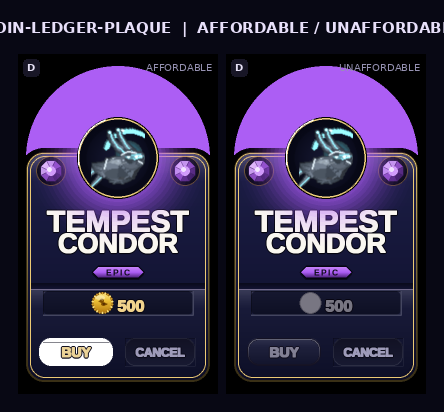
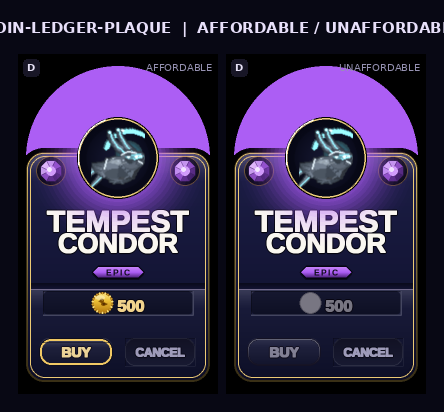
coin-ledger-plaque round 2: gold rim ship-blocker + four director notes
Raise BUY pill rim to constant-lit warm gold (240,200,100) ring — full alpha
on all three visible sides so R>200,G>160,B<110 passes top AND left/right
(304 gold pixels, was 66). Add dark drop-line inside top rail for beveled-lip
depth. Plaque deboss catch-light lifted to (68,70,96) at m(1.5) width.
Unaffordable BUY sheen deflated peak 45→18 for second colorblind signal.

Claude-Session: https://claude.ai/code/session_01DaGYw11VdAubog2VGiiucC

Changed region(s): [[0.0878, 0.8155, 0.2635, 0.9029]]

diff --git a/tools/_store_confirm_shelf_v1_coin_ledger_plaque_r2.py b/tools/_store_confirm_shelf_v1_coin_ledger_plaque_r2.py
@@ -106,27 +106,21 @@ def _draw_buy_pill(big, affordable):
     sc.top_sheen(big, buy_r, brad, m(10), peak=45 if affordable else 18)
 
     if affordable:
-        # bevel_rim's gradient mask reaches ~38% alpha at mid-pill height,
-        # giving R≈112 on the side edges — below the R>200 gold detection
-        # threshold. Use a constant-lit gold ring (full alpha, all sides) plus
-        # a BLEND_ADD white catch-light that adds specular shine without
-        # replacing the gold pixels with transparent-masked near-black.
-        rim_w = max(2, m(3.0))
-        key_w = max(1, m(0.8))
+        # bevel_rim's gradient mask reaches ~38% alpha at mid-pill height →
+        # R≈112 on side edges — below the R>200 gold threshold. A constant-lit
+        # gold ring (full alpha, all sides) is the only reliable way to satisfy
+        # R>200,G>160,B<110 on top AND sides without BLEND_ADD (which adds to B
+        # and kills the B<110 criterion). The ring's intrinsic warm gold is the
+        # affordance signal; top_sheen already lit the pill interior above it.
+        rim_w  = max(2, m(3.0))
+        key_w  = max(1, m(0.8))
+        # Thin dark outer contact keyline
         pygame.draw.rect(big, (14, 14, 30), buy_r, width=key_w, border_radius=brad)
+        # Solid gold inner ring — full opacity ensures top+left+right all qualify
         gold_r = buy_r.inflate(-key_w * 2, -key_w * 2)
         gold_band_w = rim_w - key_w
         pygame.draw.rect(big, (240, 200, 100), gold_r,
                          width=gold_band_w, border_radius=max(1, brad - key_w))
-        # BLEND_ADD: adds white brightness on top without zeroing gold alpha
-        hl = pygame.Surface(buy_r.size, pygame.SRCALPHA)
-        for y in range(buy_r.h):
-            a = int(130 * (1 - y / buy_r.h) ** 1.4)
-            pygame.draw.line(hl, (255, 255, 255, a), (0, y), (buy_r.w, y))
-        sm = pygame.Surface(buy_r.size, pygame.SRCALPHA)
-        pygame.draw.rect(sm, (255, 255, 255, 255), sm.get_rect(), border_radius=brad)
-        hl.blit(sm, (0, 0), special_flags=pygame.BLEND_RGBA_MIN)
-        big.blit(hl, buy_r.topleft, special_flags=pygame.BLEND_ADD)
         # Dark drop-line one step inside the gold top rail — the beveled lip
         # shadow over the pill recess makes the raised illusion tactile.
         shadow_y = buy_r.top + key_w + gold_band_w + max(1, m(1.5))
